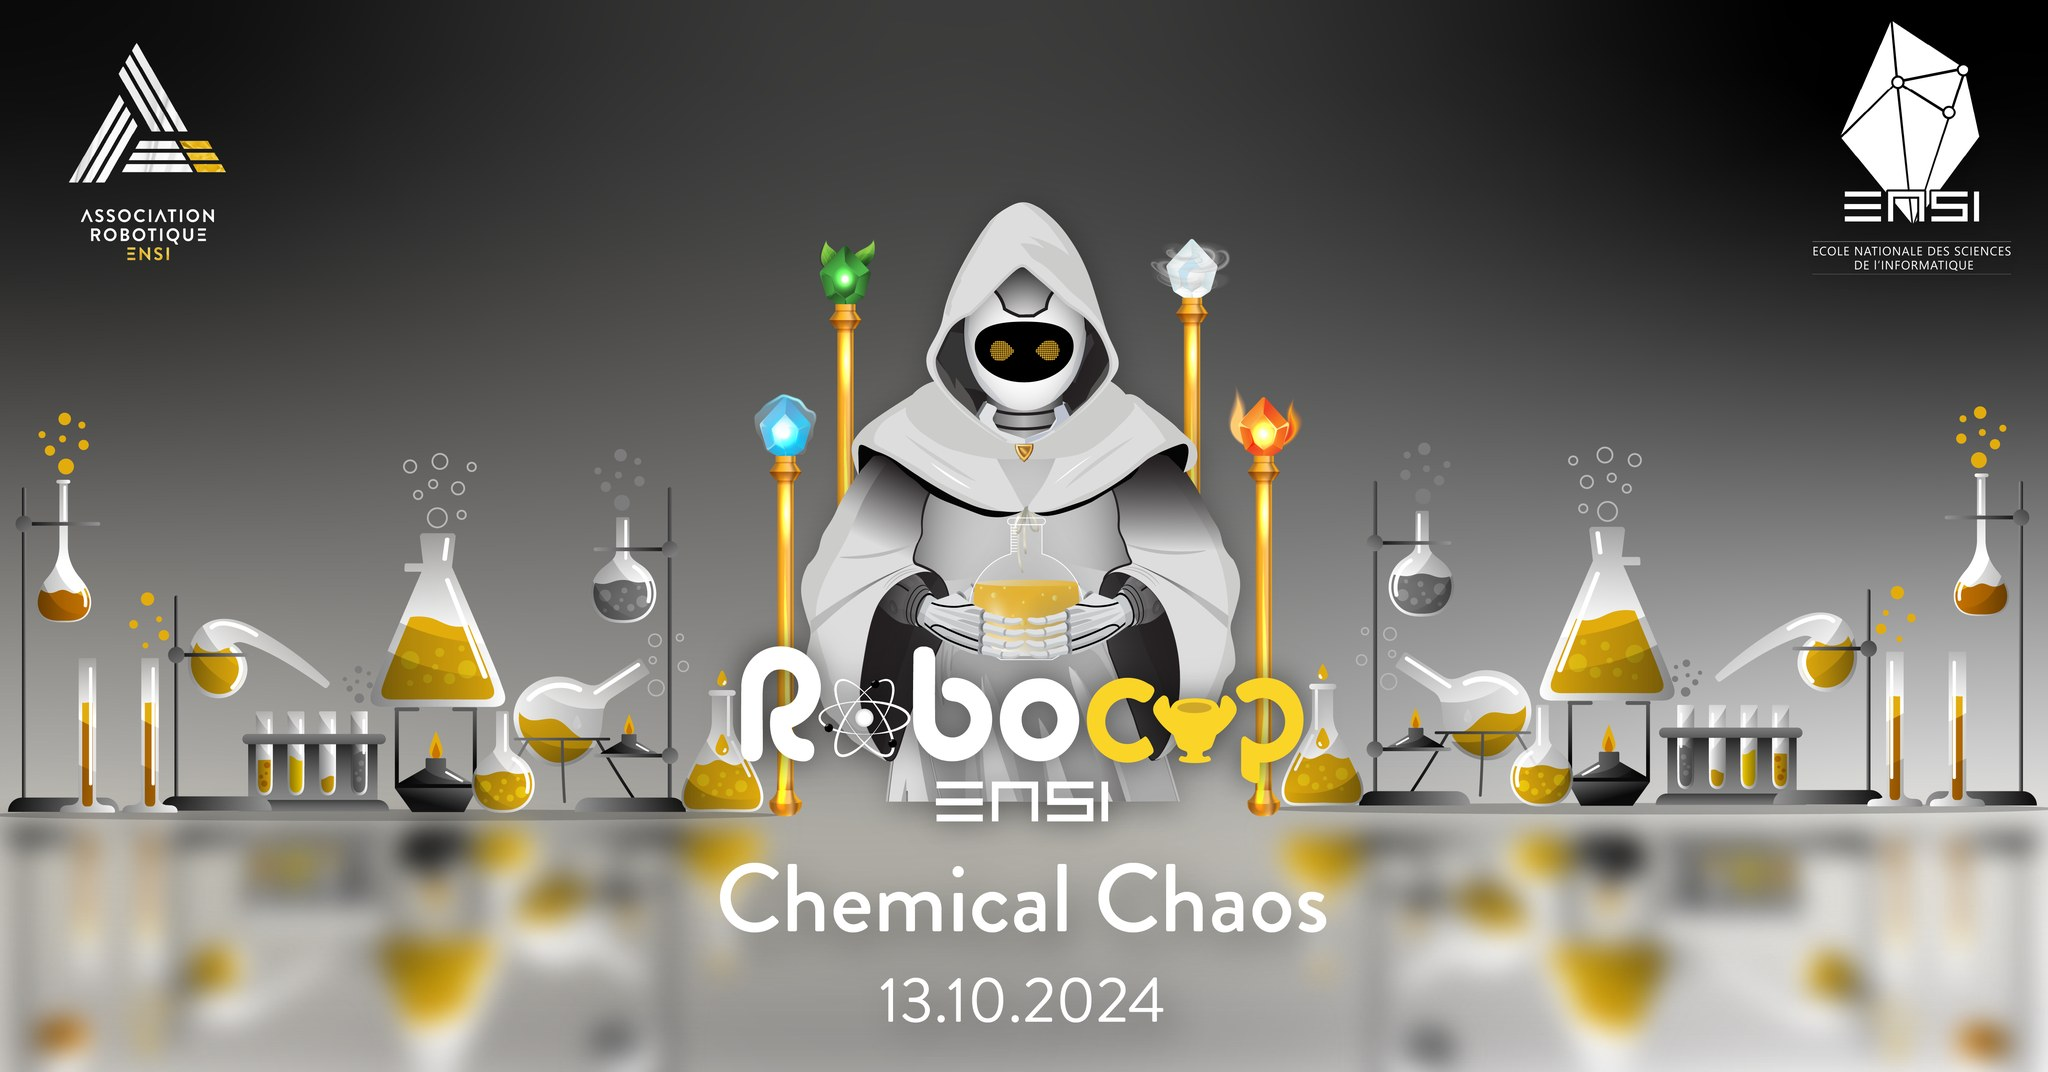
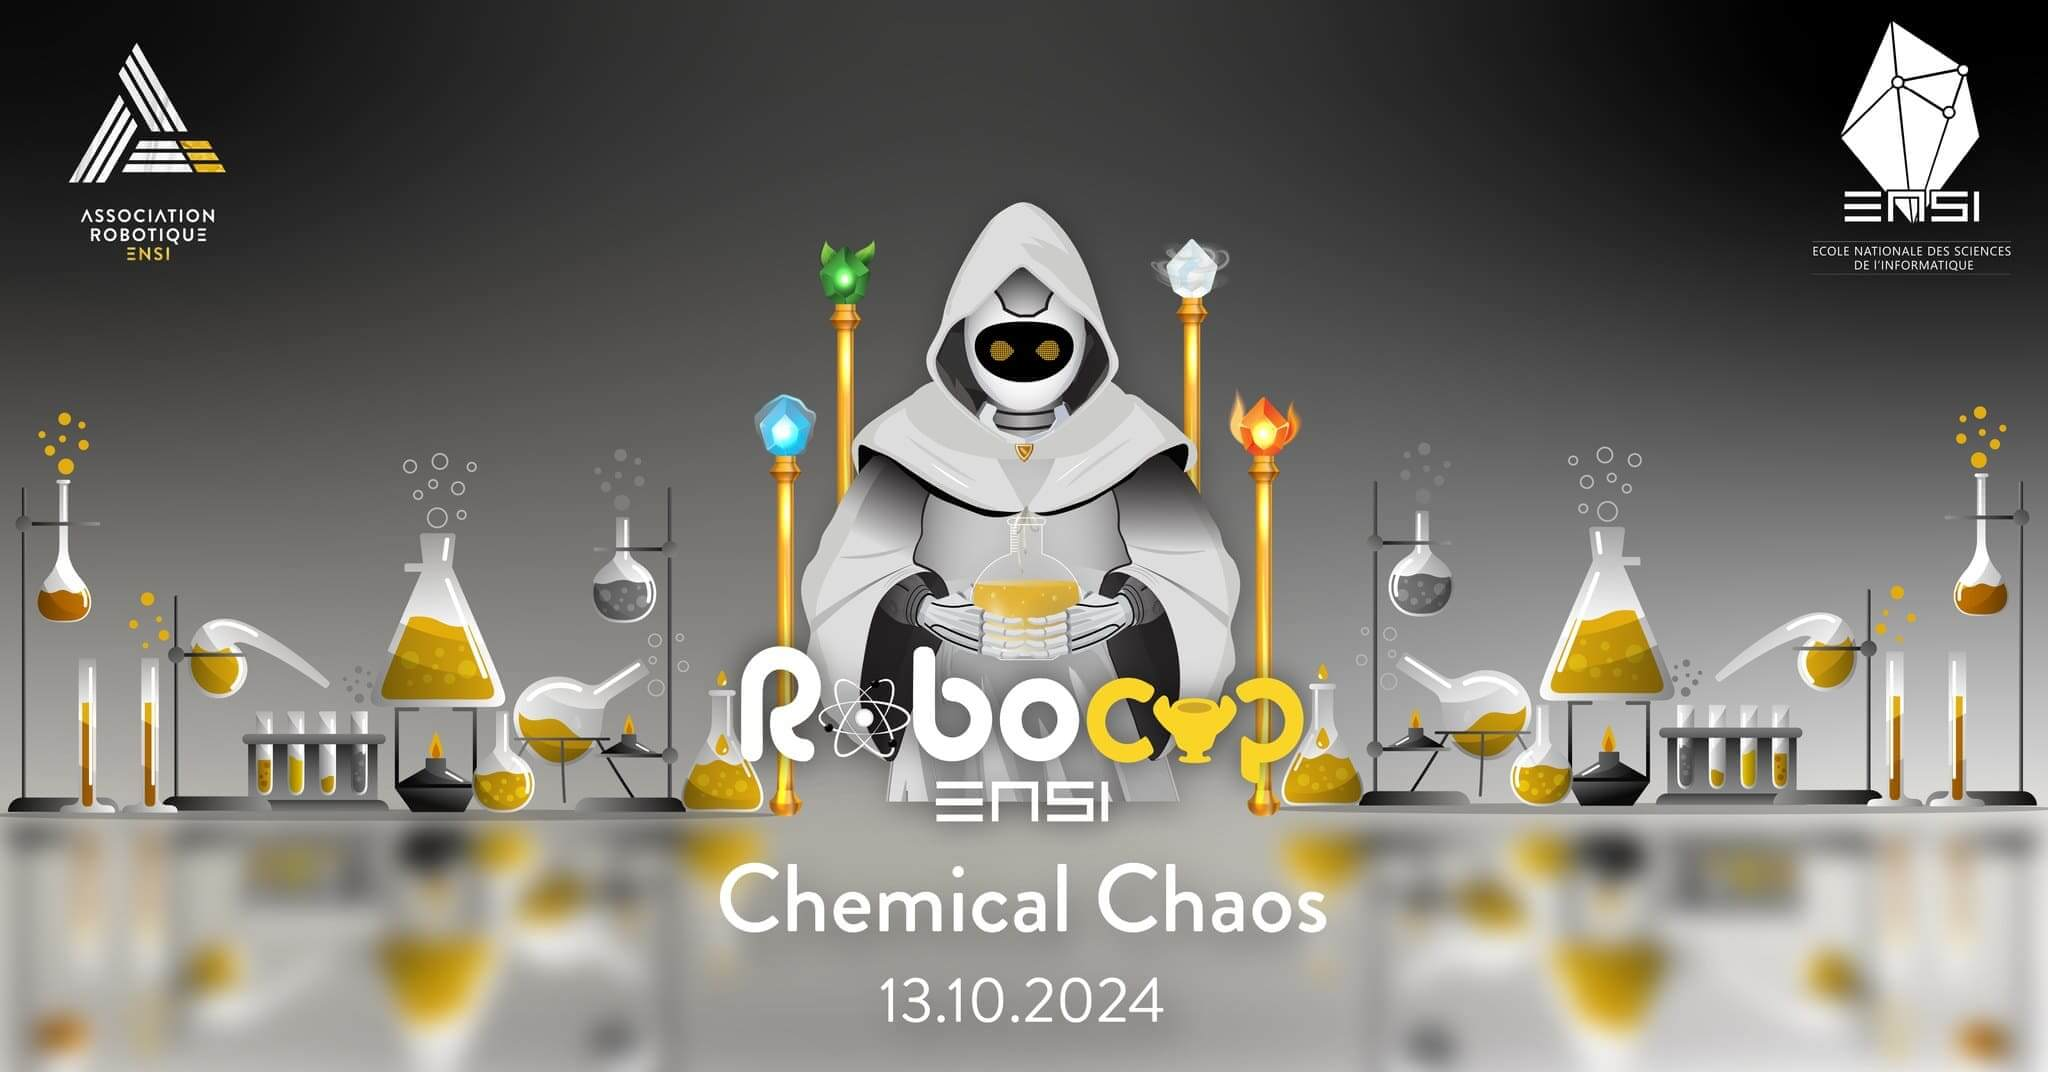
compressed hero image

diff --git a/src/lib/components/landing/hero-section.svelte b/src/lib/components/landing/hero-section.svelte
@@ -80,8 +80,8 @@
 			<BorderBeam />
 			<HeroVideoDialog
 				animationStyle="from-center"
-				videoSrc="https://www.youtube.com/watch?v=u_2VZjXJueg&t=128s"
-				thumbnailSrc="src/lib/imgs/robocup7.0_flyer.jpg"
+				videoSrc="https://www.youtube.com/watch?v=SbYXkOAoZpI"
+				thumbnailSrc="src/lib/imgs/robocup7.0_flyer.webp"
 				thumbnailAlt="Hero Video"
 			/>
 		</div>
